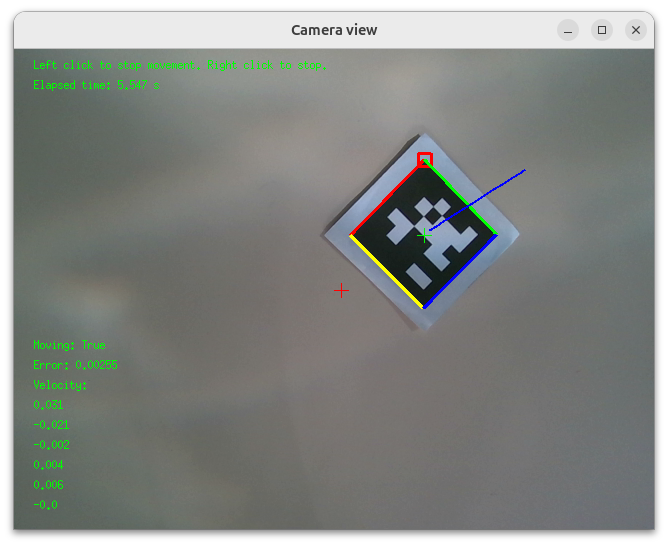
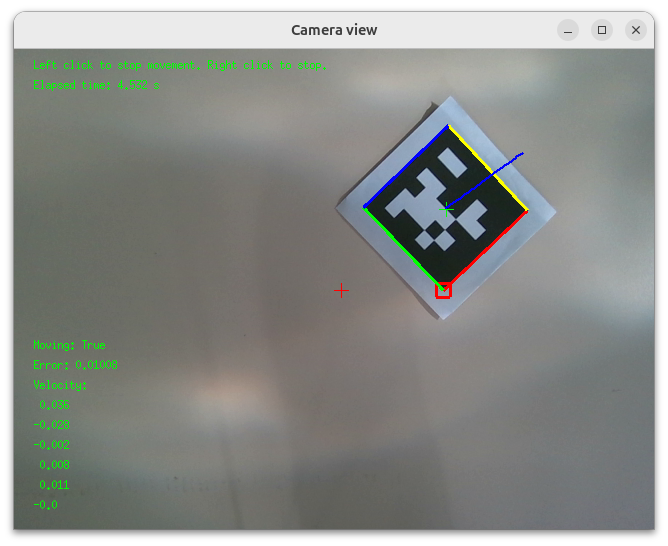
corrected displayed information on franka example

diff --git a/modules/python/examples/visual-servoing/tutorial-visual-servoing-franka.py b/modules/python/examples/visual-servoing/tutorial-visual-servoing-franka.py
@@ -1,6 +1,7 @@
 import argparse
 import math
 import sys
+import yaml
 import numpy as np
 import pyrealsense2 as rs
 
@@ -24,12 +25,13 @@ from visp.python.display_utils import get_display
 
 parser = argparse.ArgumentParser(description='Python example of eye-in-hand visual servoing using a Franka robot and a Realsense Camera')
 parser.add_argument("--ip", type=str, default="192.168.30.10", dest="robot_ip", help="Franka robot IP address. Default: %(default)s")
-parser.add_argument("--tag-size", type=float, default=0.120, dest="tag_size", help="AprilTag size in meters. Default: %(default)s")
-parser.add_argument("--emc", type=str, default="", dest="emc_file", metavar="FILE", help="File containing the homogeneous transformation matrix between the robot and camera frame.")
+parser.add_argument("--tag-size", type=float, default=0.053, dest="tag_size", help="AprilTag size in meters. Default: %(default)s")
+parser.add_argument("--extrinsics-parameters", type=str, default="", dest="extrinsics_parameters_file", help="YAML file containing the camera extrinsics")
 parser.add_argument("--adaptive-gain", action="store_true", dest="adaptive_gain", help="Enable adaptive gain.")
 parser.add_argument("--convergence-threshold", type=float, default=0.00005, dest="convergence_threshold", help="Convergence threshold of the servoing before stopping. Default: %(default)s")
 parser.add_argument("--no-convergence-threshold", action="store_true", dest="no_convergence_threshold", help="Disable the convergence threshold used to stop visual servoing.")
 parser.add_argument("--distance-to-tag", type=float, default=0.4, dest="distance_to_tag", help="Desired distance to the AprilTag in meters. Default: %(default)s")
+parser.add_argument("--no-trajectory", action="store_true", dest="no_trajectory", help="Disable the display of the trajectory.")
 
 args = parser.parse_args()
 
@@ -44,21 +46,18 @@ CAMERA_FPS = 60
 
 # Set the camera extrinsics parameters (the camera pose relative to the robot)
 extrinsics = PoseVector(0, 0, 0, 0, 0, 0)
-if args.emc_file:
-  with open(args.emc_file, "r") as file:
-    i = 0
+if args.extrinsics_parameters_file:
+  with open(args.extrinsics_parameters_file, "r") as file:
+    data = yaml.safe_load(file)
+    values = data.get("data", [])
 
-    for line in file:
-      line = line.strip()
+    if len(values) != 6:
+      raise ValueError("The YAML file must contain exactly six values under 'data'.")
+      
+    for i, value in enumerate(values):
+      extrinsics[i] = float(value[0])
 
-      if not line or line.startswith("#"):
-        continue
-
-      extrinsics[i] = float(line)
-      i += 1
-
-      if i >= 6:
-        break
+print(extrinsics)
 
 # Set the Franka robot parameters
 FRANKA_IP = args.robot_ip
@@ -139,7 +138,6 @@ try:
   task.setLambda(LAMBDA)
 
   trajectory = []
-  error = float('inf')
   can_move = False
   start_time = measureTimeMs()
 
@@ -173,7 +171,8 @@ try:
     tag_corners = detector.getTagsCorners()
 
     # Check if only one tag is detected
-    if detector.getNbObjects() == 1:
+    nb_tags = detector.getNbObjects()
+    if nb_tags == 1:
       # Get the tag position
       tag_position = tag_poses[0]
 
@@ -214,10 +213,11 @@ try:
     detector.displayTags(image, tag_corners, Color.none, 3)
 
     # Display the servoing
-    ServoDisplay.display(task, camera, image, Color.green, Color.red)
+    if nb_tags == 1:
+      ServoDisplay.display(task, camera, image, Color.green, Color.red)
 
     # Display the trajectory
-    if can_move and detector.getNbObjects() == 1:
+    if can_move and nb_tags == 1 and not args.no_trajectory:
       trajectory.append(detector.getCog(0))
       
     for i in range(len(trajectory)-1):
@@ -236,10 +236,15 @@ try:
 
     # Print the robot state and velocity
     Display.displayText(image, 300, 20, "Moving: " + str(can_move), text_color)
-    Display.displayText(image, 320, 20, "Error: " + str(round(error, 5)), text_color)
-    Display.displayText(image, 340, 20, "Velocity:", text_color)
-    for i in range(velocity.size()):
-      Display.displayText(image, 360 + 20*i, 20, str(round(velocity[i], 3)), text_color)
+    if nb_tags == 1:
+      Display.displayText(image, 320, 20, "Error: " + str(round(error, 5)), text_color)
+      if can_move:
+        Display.displayText(image, 340, 20, "Velocity:", text_color)
+        for i in range(velocity.size()):
+          vel = str(round(velocity[i], 3))
+          if vel[0] != '-':
+            vel = ' ' + vel
+          Display.displayText(image, 360 + 20*i, 20, vel, text_color)
 
     Display.flush(image)
 

diff --git a/modules/python/doc/rst/tutorials/visual-servoing/tutorial-visual-servoing-franka.rst b/modules/python/doc/rst/tutorials/visual-servoing/tutorial-visual-servoing-franka.rst
@@ -13,7 +13,7 @@ Goal
 In this tutorial you will learn how to:
 
 - Connect to a Franka robot with :py:class:`~visp.robot.RobotFranka` and :py:class:`~visp.robot.Robot`.
-- Compute a visual servoing task with :py:class:`~visp.core.Servo` using a 3D point (X, Y, Z) as visual feature.
+- Compute a visual servoing task with :py:class:`~visp.vs.Servo` using a 3D point (X, Y, Z) as visual feature.
 
 Prerequisites
 --------------------------------------------------
@@ -58,32 +58,40 @@ You can run the example with:
 
   python3 $VISP_WS/visp/modules/python/examples/visual-servoing/tutorial-visual-servoing-franka.py
 
+You can also specify the following command-line options:
+
+- ``--ip ROBOT_IP`` Franka robot IP address. Default: ``192.168.30.10``
+- ``--tag-size TAG_SIZE`` AprilTag size in meters. Default: ``0.053``
+- ``--extrinsics-parameters EXTRINSICS_PARAMETERS_FILE`` YAML file containing the camera extrinsics. Default: no file
+- ``--adaptive-gain`` Enable adaptive gain.
+- ``--convergence-threshold CONVERGENCE_THRESHOLD`` Convergence threshold of the servoing before stopping. Default: ``0.00005``
+- ``--no-convergence-threshold`` Disable the convergence threshold used to stop visual servoing.
+- ``--distance-to-tag DISTANCE_TO_TAG`` Desired distance to the AprilTag in meters. Default: ``0.4``
+- ``--no-trajectory`` Disable the display of the trajectory.
+- ``--help`` Display the help message and exit.
+
 Usage
 --------------------------------------------------
 
 A window opens and displays the stream of the camera.
 
-At startup, the robot movement is disabled, as shown on the ``Idle state`` image.
+At startup, the robot movement is disabled.
 You can click the left mouse button to start or stop the visual servoing,
 and click the right mouse button to stop the program.
 
-When activated, if one and only one AprilTag is detected, the robot moves to match the center of gravity of the tag
-with the center of the screen, at a set distance.
+When activated, if one and only one AprilTag is detected,
+the robot moves to match the center of gravity of the tag with the center of the screen, at a set distance.
 In the ``Starting`` image, you can see the two centers represented by respectively the green and red crosses.
 The trajectory of the tag center is shown by the blue trail on the ``Moving state`` image.
 After reaching the desired position within a specified margin, the robot stops, as on the ``Stopping`` image.
 
 .. list-table::
 
-  * - **Idle state**
-
-      .. image:: images/result-visual-servoing-franka-idle.png
-
-    - **Starting**
+  * - **Starting**
 
       .. image:: images/result-visual-servoing-franka-start.png
 
-  * - **Moving State**
+    - **Moving State**
 
       .. image:: images/result-visual-servoing-franka-moving.png
 
@@ -120,7 +128,7 @@ We will use :py:class:`~visp.core.PoseVector`, :py:class:`~visp.core.Homogeneous
 The Franka robot is manipulated with :py:class:`~visp.robot.Robot` and :py:class:`~visp.robot.RobotFranka`,
 and the visual-servoing task is implemented with :py:class:`~visp.vs.Servo`.
 The result is displayed with :py:class:`~visp.core.Display`,
-:py:func:`~visp.python.display_utils.get_display`, and :py:class:`~visp.vs.ServoDisplay`.
+:py:func:`~visp.python.display_utils.get_display`, and :py:class:`~visp.vs.ServoDisplay`:
 
 .. literalinclude:: /examples/visual-servoing/tutorial-visual-servoing-franka.py
   :language: python
@@ -152,7 +160,7 @@ The transformation is created from the extrinsic camera parameters that are hard
   To estimate the extrinsic camera parameters for your specific camera mount, refer to the
   `extrinsic camera calibration tutorial <https://visp-doc.inria.fr/doxygen/visp-daily/tutorial-calibration-extrinsic-eye-in-hand.html>`_.
 
-It is then passed to the robot with :meth:`~visp.core.RobotFranka.set_eMc`, along with its IP adress.
+It is then passed to the robot with :meth:`~visp.robot.RobotFranka.set_eMc`, along with its IP adress.
 This allows the robot interface to situate the camera in space, and move accordingly towards the desired position:
 
 .. literalinclude:: /examples/visual-servoing/tutorial-visual-servoing-franka.py
